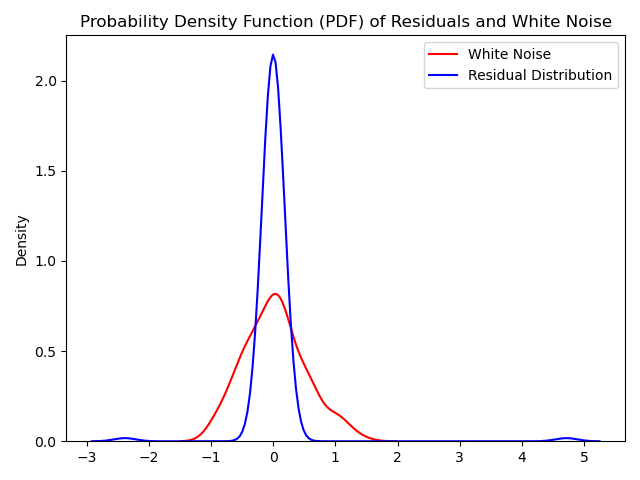
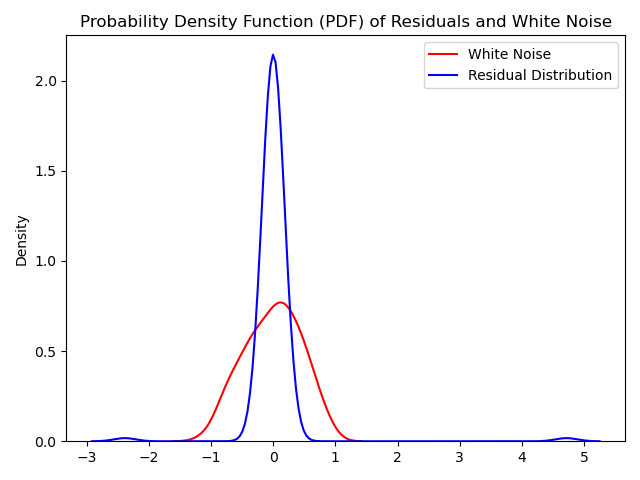
Included code in python files

diff --git a/src/.ipynb_checkpoints/data_processing-checkpoint.py b/src/.ipynb_checkpoints/data_processing-checkpoint.py
@@ -1,0 +1,50 @@
+import pandas as pd
+import numpy as np
+import os
+
+# Put this notebook in the python file
+def load_data(path_to_data):
+    data = pd.read_csv(path_to_data)
+    return data
+
+def clean_data(data):
+    '''
+    This function takes the loaded dataset and applies necessary cleaning techniques to it and
+    returns a new dataset
+    '''
+    # Sort values by time
+    data = data.sort_values(by="Month") # Sort values by time
+    # Verify if time steps are consistent
+    data["time"] = pd.to_datetime(data["Month"], errors="coerce")
+    time_diffs = data["time"].diff(1)
+    month_diffs = np.round(time_diffs.dt.days / 30)
+    # If time steps are consistent, then the maximum and minimum values of month_diffs must be one
+    is_time_consistent = month_diffs.min() == month_diffs.max() == 1
+    print("Is time consistent: ", is_time_consistent)
+    
+    # Remove outliers from data
+    clean_data = remove_outliers(data["Passengers"])
+    #print("Clean data shape: ", clean_data.shape)
+    
+    clean_data = pd.DataFrame(
+        {
+            "time": data["time"],
+            "Passengers": clean_data
+        }
+    )
+    # Set time column as index
+    clean_data = clean_data.set_index("time")
+    clean_data.describe()
+    
+    print("Shape of clean data: ", clean_data.shape)
+    # Save clean data
+    clean_data.to_csv(os.path.join(r"C:\Users\pad market\Desktop\airline-passenger-forecasting\data", "cleaned_data.csv"))
+    return clean_data
+    
+def remove_outliers(data):
+    data = data.copy() # Do not modify the= original time-series
+    mean = data.mean()
+    std = data.std()
+    z_scores = (data - mean) / std
+    data.loc[np.abs(z_scores) >=3] = data.median()
+    return data

diff --git a/src/data_processing.py b/src/data_processing.py
@@ -1,0 +1,50 @@
+import pandas as pd
+import numpy as np
+import os
+
+# Put this notebook in the python file
+def load_data(path_to_data):
+    data = pd.read_csv(path_to_data)
+    return data
+
+def clean_data(data):
+    '''
+    This function takes the loaded dataset and applies necessary cleaning techniques to it and
+    returns a new dataset
+    '''
+    # Sort values by time
+    data = data.sort_values(by="Month") # Sort values by time
+    # Verify if time steps are consistent
+    data["time"] = pd.to_datetime(data["Month"], errors="coerce")
+    time_diffs = data["time"].diff(1)
+    month_diffs = np.round(time_diffs.dt.days / 30)
+    # If time steps are consistent, then the maximum and minimum values of month_diffs must be one
+    is_time_consistent = month_diffs.min() == month_diffs.max() == 1
+    print("Is time consistent: ", is_time_consistent)
+    
+    # Remove outliers from data
+    clean_data = remove_outliers(data["Passengers"])
+    #print("Clean data shape: ", clean_data.shape)
+    
+    clean_data = pd.DataFrame(
+        {
+            "time": data["time"],
+            "Passengers": clean_data
+        }
+    )
+    # Set time column as index
+    clean_data = clean_data.set_index("time")
+    clean_data.describe()
+    
+    print("Shape of clean data: ", clean_data.shape)
+    # Save clean data
+    clean_data.to_csv(os.path.join(r"C:\Users\pad market\Desktop\airline-passenger-forecasting\data", "cleaned_data.csv"))
+    return clean_data
+    
+def remove_outliers(data):
+    data = data.copy() # Do not modify the= original time-series
+    mean = data.mean()
+    std = data.std()
+    z_scores = (data - mean) / std
+    data.loc[np.abs(z_scores) >=3] = data.median()
+    return data

diff --git a/src/.ipynb_checkpoints/eda-checkpoint.py b/src/.ipynb_checkpoints/eda-checkpoint.py
@@ -1,0 +1,26 @@
+import pandas as pd
+import numpy as np
+import warnings
+from statsmodels.tsa.stattools import adfuller
+from statsmodels.graphics.tsaplots import plot_acf, plot_pacf
+from statsmodels.tsa.statespace.sarimax import SARIMAX
+from sklearn.metrics import root_mean_squared_error, mean_squared_error, mean_absolute_error, mean_absolute_percentage_error
+import matplotlib.pyplot as plt
+import seaborn as sns
+import os
+
+def is_stationary(data):
+    result = adfuller(data)
+    p_value = result[1]
+    return p_value < 0.05
+
+def plot_rolling_mean_variance(data, window, title, path_to_save):
+    rolling_mean = data.rolling(window).mean()
+    rolling_variance = data.rolling(window).var()
+    plt.figure(figsize=(8, 6))
+    plt.plot(rolling_mean, color="red", label="rolling mean")
+    plt.plot(rolling_variance, color="orange", label="rolling variance")
+    plt.title(title)
+    plt.legend(loc="upper right")
+    plt.savefig(path_to_save)
+    plt.show()

diff --git a/src/eda.py b/src/eda.py
@@ -1,0 +1,26 @@
+import pandas as pd
+import numpy as np
+import warnings
+from statsmodels.tsa.stattools import adfuller
+from statsmodels.graphics.tsaplots import plot_acf, plot_pacf
+from statsmodels.tsa.statespace.sarimax import SARIMAX
+from sklearn.metrics import root_mean_squared_error, mean_squared_error, mean_absolute_error, mean_absolute_percentage_error
+import matplotlib.pyplot as plt
+import seaborn as sns
+import os
+
+def is_stationary(data):
+    result = adfuller(data)
+    p_value = result[1]
+    return p_value < 0.05
+
+def plot_rolling_mean_variance(data, window, title, path_to_save):
+    rolling_mean = data.rolling(window).mean()
+    rolling_variance = data.rolling(window).var()
+    plt.figure(figsize=(8, 6))
+    plt.plot(rolling_mean, color="red", label="rolling mean")
+    plt.plot(rolling_variance, color="orange", label="rolling variance")
+    plt.title(title)
+    plt.legend(loc="upper right")
+    plt.savefig(path_to_save)
+    plt.show()

diff --git a/src/.ipynb_checkpoints/model_evaluation-checkpoint.py b/src/.ipynb_checkpoints/model_evaluation-checkpoint.py
@@ -1,0 +1,21 @@
+from sklearn.metrics import root_mean_squared_error, mean_squared_error, mean_absolute_error, mean_absolute_percentage_error
+
+def evaluate_model(test_data, predictions):
+    '''
+    This function calculates and returns RMSE, MSE, MAE, and MAPE
+    The function returns a dictionary
+    '''
+    rmse = root_mean_squared_error(test_data, predictions)
+    mse = mean_squared_error(test_data, predictions)
+    mae = mean_absolute_error(test_data, predictions)
+    mape = mean_absolute_percentage_error(test_data, predictions)
+    metrics =  {
+        "rmse": rmse, 
+        "mse": mse,
+        "mae": mae, 
+        "mape": mape
+    }
+    return metrics
+
+def residuals(model_fit):
+    return model_fit.resid

diff --git a/src/.ipynb_checkpoints/modeling-checkpoint.py b/src/.ipynb_checkpoints/modeling-checkpoint.py
@@ -1,0 +1,21 @@
+from statsmodels.tsa.statespace.sarimax import SARIMAX
+
+# This will be put in modeling python files
+def train_sarima(train_data, order, seasonal_order, s): 
+    '''
+    Note that order and seasonal_order must be tuples, train_data must be a time-series, and s an integer
+    '''
+    # Load SARIMA model
+    model = SARIMAX(
+        train_data, 
+        order = (p, d, q),
+        seasonal_order = (P, D, Q, s)
+    )
+    
+    # Train the model
+    model_fit = model.fit()
+    return model_fit
+
+def forecast(model_fit, test_data):
+    predictions = model_fit.get_forecast(steps=test_data.size)
+    return predictions.predicted_mean

diff --git a/src/model_evaluation.py b/src/model_evaluation.py
@@ -1,0 +1,21 @@
+from sklearn.metrics import root_mean_squared_error, mean_squared_error, mean_absolute_error, mean_absolute_percentage_error
+
+def evaluate_model(test_data, predictions):
+    '''
+    This function calculates and returns RMSE, MSE, MAE, and MAPE
+    The function returns a dictionary
+    '''
+    rmse = root_mean_squared_error(test_data, predictions)
+    mse = mean_squared_error(test_data, predictions)
+    mae = mean_absolute_error(test_data, predictions)
+    mape = mean_absolute_percentage_error(test_data, predictions)
+    metrics =  {
+        "rmse": rmse, 
+        "mse": mse,
+        "mae": mae, 
+        "mape": mape
+    }
+    return metrics
+
+def residuals(model_fit):
+    return model_fit.resid

diff --git a/src/modeling.py b/src/modeling.py
@@ -1,0 +1,21 @@
+from statsmodels.tsa.statespace.sarimax import SARIMAX
+
+# This will be put in modeling python files
+def train_sarima(train_data, order, seasonal_order, s): 
+    '''
+    Note that order and seasonal_order must be tuples, train_data must be a time-series, and s an integer
+    '''
+    # Load SARIMA model
+    model = SARIMAX(
+        train_data, 
+        order = (p, d, q),
+        seasonal_order = (P, D, Q, s)
+    )
+    
+    # Train the model
+    model_fit = model.fit()
+    return model_fit
+
+def forecast(model_fit, test_data):
+    predictions = model_fit.get_forecast(steps=test_data.size)
+    return predictions.predicted_mean

diff --git a/src/.ipynb_checkpoints/main-checkpoint.py b/src/.ipynb_checkpoints/main-checkpoint.py
@@ -1,0 +1,2 @@
+print("This is the main file where we will gather and run all our code")
+from src.modeling import train_sarima

diff --git a/src/main.py b/src/main.py
@@ -1,0 +1,2 @@
+print("This is the main file where we will gather and run all our code")
+from src.modeling import train_sarima